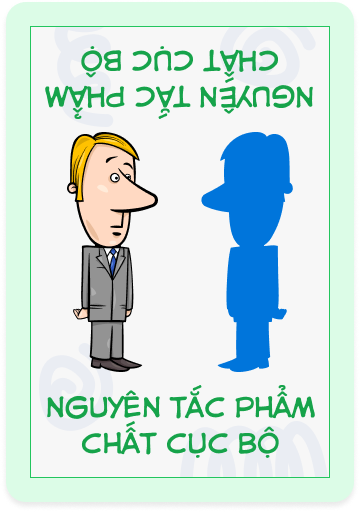
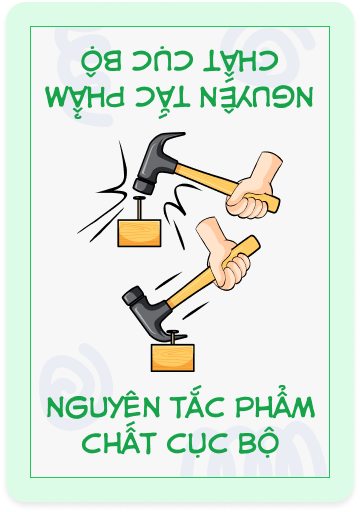
hotfix: add more principle images

Changed region(s): [[0.1833, 0.25, 0.825, 0.75]]

diff --git a/src/components/ui/principle-hero-section.tsx b/src/components/ui/principle-hero-section.tsx
@@ -1,49 +1,48 @@
-import {
-  DaoNguoc,
-  PhanNho,
-  PhamChatCucBo,
-  TachKhoi,
-  PhanDoiXung,
-  DuPhong,
-  PhanTrongLuc,
-  LienTucTacDong,
-} from '@/assets/images/principles';
+import * as principlesImages from '@/assets/images/principles';
 import { PrincipleList } from '@/components/ui/principle-list';
 
 const PrincipleSection = () => {
   const principles = [
-    {
-      id: 1,
-      image: PhanNho,
-    },
-    {
-      id: 2,
-      image: DaoNguoc,
-    },
-    {
-      id: 3,
-      image: PhamChatCucBo,
-    },
-    {
-      id: 4,
-      image: TachKhoi,
-    },
-    {
-      id: 5,
-      image: PhanDoiXung,
-    },
-    {
-      id: 6,
-      image: DuPhong,
-    },
-    {
-      id: 7,
-      image: PhanTrongLuc,
-    },
-    {
-      id: 8,
-      image: LienTucTacDong,
-    },
+    { id: 1, image: principlesImages.PhanNho },
+    { id: 2, image: principlesImages.DaoNguoc },
+    { id: 3, image: principlesImages.PhamChatCucBo },
+    { id: 4, image: principlesImages.TachKhoi },
+    { id: 5, image: principlesImages.PhanDoiXung },
+    { id: 6, image: principlesImages.DuPhong },
+    { id: 7, image: principlesImages.PhanTrongLuc },
+    { id: 8, image: principlesImages.KetHop },
+    { id: 9, image: principlesImages.VanNang },
+    { id: 10, image: principlesImages.ChuaTrong },
+    { id: 11, image: principlesImages.UngXuatSoBo },
+    { id: 12, image: principlesImages.ThucHienSoBo },
+    { id: 13, image: principlesImages.DangThe },
+    { id: 14, image: principlesImages.CauTronHoa },
+    { id: 15, image: principlesImages.LinhDong },
+    { id: 16, image: principlesImages.GiaiThieuHoacThua },
+    { id: 17, image: principlesImages.ChuyenSangChieuKhac },
+    { id: 18, image: principlesImages.CoDongHoc },
+    { id: 19, image: principlesImages.TacDongChuKy },
+    { id: 20, image: principlesImages.LienTucTacDongCoIch },
+    { id: 21, image: principlesImages.VuotNhanh },
+    { id: 22, image: principlesImages.BienHaiThanhLoi },
+    { id: 23, image: principlesImages.QuanHePhanHoi },
+    { id: 24, image: principlesImages.SuDungTrungGian },
+    { id: 25, image: principlesImages.TuPhucVu },
+    { id: 26, image: principlesImages.SaoChep },
+    { id: 27, image: principlesImages.ReThayChoDat },
+    { id: 28, image: principlesImages.SoDoCoHoc },
+    { id: 29, image: principlesImages.SuDungLongKhi },
+    { id: 30, image: principlesImages.VoDeoMangMong },
+    { id: 31, image: principlesImages.VatLieuNhieuLo },
+    { id: 32, image: principlesImages.ThayDoiMauSac },
+    { id: 33, image: principlesImages.DongNhat },
+    { id: 34, image: principlesImages.PhanHuy },
+    { id: 35, image: principlesImages.ThongSoHoaLy },
+    { id: 36, image: principlesImages.SuDungChuyenPha },
+    { id: 37, image: principlesImages.NoNhiet },
+    { id: 38, image: principlesImages.OxyHoa },
+    { id: 39, image: principlesImages.DoTro },
+    { id: 40, image: principlesImages.VatLieuHopThanh },
   ];
 
   return (

diff --git a/src/assets/images/principles/index.ts b/src/assets/images/principles/index.ts
@@ -1,8 +1,40 @@
-export * as DaoNguoc from './dao-nguoc.png';
-export * as PhanNho from './phan-nho.png';
-export * as PhamChatCucBo from './pham-chat-cuc-bo.png';
-export * as TachKhoi from './tach-khoi.png';
-export * as PhanDoiXung from './phan-doi-xung.png';
-export * as DuPhong from './du-phong.png';
-export * as PhanTrongLuc from './phan-trong-luc.png';
-export * as LienTucTacDong from './lien-tuc-tac-dong.png';
+export { default as PhanNho } from './phan-nho.png';
+export { default as TachKhoi } from './tach-khoi.png';
+export { default as PhamChatCucBo } from './pham-chat-cuc-bo.png';
+export { default as PhanDoiXung } from './phan-doi-xung.png';
+export { default as KetHop } from './ket-hop.png';
+export { default as VanNang } from './van-nang.png';
+export { default as ChuaTrong } from './chua-trong.png';
+export { default as PhanTrongLuc } from './phan-trong-luc.png';
+export { default as UngXuatSoBo } from './ung-xuat-so-bo.png';
+export { default as ThucHienSoBo } from './thuc-hien-so-bo.png';
+export { default as DuPhong } from './du-phong.png';
+export { default as DangThe } from './dang-the.png';
+export { default as DaoNguoc } from './dao-nguoc.png';
+export { default as CauTronHoa } from './cau-tron-hoa.png';
+export { default as LinhDong } from './linh-dong.png';
+export { default as GiaiThieuHoacThua } from './giai-thieu-hoac-thua.png';
+export { default as ChuyenSangChieuKhac } from './chuyen-sang-chieu-khac.png';
+export { default as CoDongHoc } from './co-dong-hoc.png';
+export { default as TacDongChuKy } from './tac-dong-chu-ky.png';
+export { default as LienTucTacDongCoIch } from './lien-tuc-tac-dong-co-ich.png';
+export { default as VuotNhanh } from './vuot-nhanh.png';
+export { default as BienHaiThanhLoi } from './bien-hai-thanh-loi.png';
+export { default as QuanHePhanHoi } from './quan-he-phan-hoi.png';
+export { default as SuDungTrungGian } from './su-dung-trung-gian.png';
+export { default as TuPhucVu } from './tu-phuc-vu.png';
+export { default as SaoChep } from './sao-chep.png';
+export { default as ReThayChoDat } from './re-thay-cho-dat.png';
+export { default as SoDoCoHoc } from './thay-doi-co-hoc.png';
+export { default as SuDungLongKhi } from './su-dung-long-khi.png';
+export { default as VoDeoMangMong } from './vo-deo-mang-mong.png';
+export { default as VatLieuNhieuLo } from './vat-lieu-nhiu-lo.png';
+export { default as ThayDoiMauSac } from './thay-doi-mau-sac.png';
+export { default as DongNhat } from './dong-nhat.png';
+export { default as PhanHuy } from './phan-huy.png';
+export { default as ThongSoHoaLy } from './thong-so-hoa-ly.png';
+export { default as SuDungChuyenPha } from './su-dung-chuyen-pha.png';
+export { default as NoNhiet } from './no-nhiet.png';
+export { default as OxyHoa } from './oxy-hoa.png';
+export { default as DoTro } from './do-tro.png';
+export { default as VatLieuHopThanh } from './vat-lieu-hop-thanh.png';

diff --git a/src/components/ui/principle-list.tsx b/src/components/ui/principle-list.tsx
@@ -3,10 +3,7 @@ import { ArrowLeft, ArrowRight } from 'lucide-react';
 import React, { useEffect, useRef } from 'react';
 
 interface CarouselTestProps {
-  principles: Array<{
-    id: number;
-    image: { default: string };
-  }>;
+  principles: Array<{ id: number; image: string }>;
 }
 
 const PrincipleList: React.FC<CarouselTestProps> = ({ principles }) => {
@@ -27,7 +24,7 @@ const PrincipleList: React.FC<CarouselTestProps> = ({ principles }) => {
 
       // Cycle through principles
       const principleIndex = i % principles.length;
-      img.src = principles[principleIndex].image.default;
+      img.src = principles[principleIndex].image;
       img.alt = `TRIZ Principle ${principles[principleIndex].id}`;
       img.className = 'w-full h-full object-contain';
 
